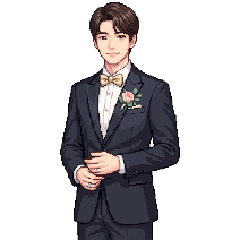
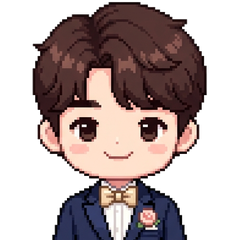
feat: switch couple to cute 3-head-tall chibi pixel characters & matching cover illustration

diff --git a/src/components/VillageCanvas.tsx b/src/components/VillageCanvas.tsx
@@ -345,7 +345,7 @@ export const VillageCanvas: React.FC<VillageCanvasProps> = ({
         trailRef.current[Math.min(16, trailRef.current.length - 1)] || posRef.current;
 
       // Offset Bride slightly to the right of Groom so they stroll side-by-side
-      const brideFootX = (brideTrail.x / 100) * W + 38;
+      const brideFootX = (brideTrail.x / 100) * W + 42;
       const brideFootY = (brideTrail.y / 100) * H + 2;
 
       const catFootX = (catTrail.x / 100) * W - 40;
@@ -376,45 +376,42 @@ export const VillageCanvas: React.FC<VillageCanvasProps> = ({
         );
       }
 
-      // Draw Groom (110x380 natural ratio -> 32x110)
+      // 3-head-tall chibi couple: fixed display height, width from each sprite's natural ratio
+      const CHIBI_H = 96;
+      const drawChibi = (img: HTMLImageElement, footX: number, footY: number, bob: number) => {
+        const w = Math.round((CHIBI_H * img.naturalWidth) / img.naturalHeight);
+        ctx.drawImage(
+          img,
+          Math.round(footX - w / 2),
+          Math.round(footY - CHIBI_H - bob),
+          w,
+          CHIBI_H
+        );
+      };
+
+      // Draw Groom
       if (assetsRef.current.groom) {
-        const groomW = 32;
-        const groomH = 110;
-        ctx.drawImage(
-          assetsRef.current.groom,
-          Math.round(groomFootX - 6 - groomW / 2),
-          Math.round(groomFootY - groomH - walkBob),
-          groomW,
-          groomH
-        );
+        drawChibi(assetsRef.current.groom, groomFootX - 6, groomFootY, walkBob);
       }
 
-      // Draw Bride (230x380 natural ratio -> 66x109)
+      // Draw Bride
       if (assetsRef.current.bride) {
-        const brideW = 66;
-        const brideH = 109;
-        ctx.drawImage(
-          assetsRef.current.bride,
-          Math.round(brideFootX - brideW / 2),
-          Math.round(brideFootY - brideH - walkBob * 0.9),
-          brideW,
-          brideH
-        );
+        drawChibi(assetsRef.current.bride, brideFootX, brideFootY, walkBob * 0.9);
       }
 
-      // Floating Heart between Groom & Bride
+      // Floating Heart between Groom & Bride (at head height)
       ctx.fillStyle = '#d97b84';
       ctx.font = 'bold 15px sans-serif';
       ctx.textAlign = 'center';
       ctx.fillText(
         '♥',
-        Math.round((groomFootX + brideFootX) / 2 - 2),
-        Math.round(groomFootY - 82 - walkBob)
+        Math.round((groomFootX - 6 + brideFootX) / 2),
+        Math.round(groomFootY - CHIBI_H - 4 - walkBob + Math.sin(tick * 0.1) * 2)
       );
 
       // Couple Overhead Name Tag
       const centerCoupleX = (groomFootX + brideFootX) / 2;
-      const tagY = groomFootY - 134 - walkBob;
+      const tagY = groomFootY - CHIBI_H - 34 - walkBob;
       ctx.fillStyle = 'rgba(255, 253, 249, 0.94)';
       ctx.fillRect(centerCoupleX - 58, tagY, 116, 23);
       ctx.strokeStyle = '#d97b84';

diff --git a/src/components/TitleScreen.tsx b/src/components/TitleScreen.tsx
@@ -87,10 +87,16 @@ export const TitleScreen: React.FC<TitleScreenProps> = ({
               coverType === 'pixel' ? 'pixelated' : 'brightness-[0.97]'
             }`}
           />
-          <div className="absolute inset-0 bg-gradient-to-t from-[#2b211e]/55 via-transparent to-transparent" />
+          {coverType === 'photo' && (
+            <div className="absolute inset-0 bg-gradient-to-t from-[#2b211e]/45 via-transparent to-transparent" />
+          )}
+        </div>
+      </div>
 
-          {/* Floating Couple Portrait Badge at Bottom of Arch */}
-          <div className="absolute bottom-2.5 inset-x-2.5 bg-[#fffdf9]/92 backdrop-blur-xs border border-[#e6d5b8] rounded-xl py-1.5 px-3 flex items-center justify-center gap-2.5 shadow-sm">
+      {/* Couple Portrait Badge overlapping the bottom edge of the arch (keeps the illustration unobstructed) */}
+      <div className="relative z-10 -mt-7 flex justify-center">
+        <div>
+          <div className="bg-[#fffdf9] border border-[#e6d5b8] rounded-full py-1.5 px-3 flex items-center justify-center gap-2.5 shadow-sm">
             <div className="w-14 h-14 rounded-full bg-[#faf5ec] border border-[#d4b48c] overflow-hidden flex items-center justify-center shrink-0">
               <GroomSprite size={54} variant="portrait" bounce />
             </div>
